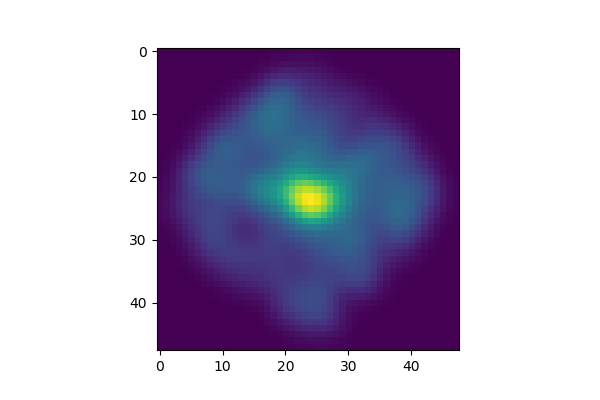
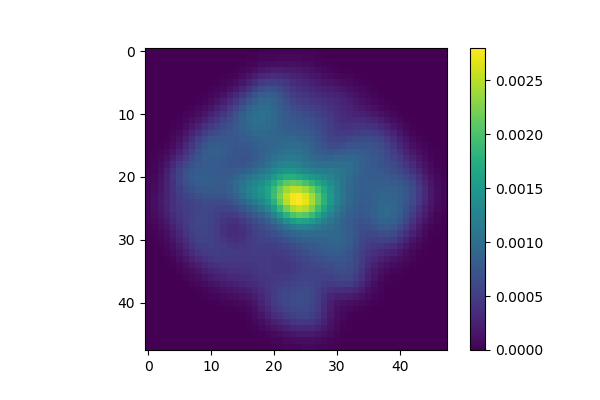
Changed figure plots to save color bars. Added code to save radial profile plots.

diff --git a/CombineImageStacks.py b/CombineImageStacks.py
@@ -3,7 +3,7 @@
 Created on Tue May 29 21:05:05 2018
 
 @author: Matthew Peek
-Last Modified: 16 December 2018
+Last Modified: 30 December 2018
 All Fields Image Stack
 """
 import numpy as np
@@ -34,20 +34,20 @@ def stackAll(fileListAll):
     
     plt.clf()
     plt.imshow(imageStack)
-    plt.savefig('Stacked_Image_All', dpi=100)
-    plt.subplots_adjust(right=2.0)
-    plt.subplots_adjust(top=1.0)
+    #plt.subplots_adjust(right=2.0)
+    #plt.subplots_adjust(top=1.0)
     plt.colorbar()
+    plt.savefig('Stacked_Image_All', dpi=100)
     plt.show()
     
     #Gaussian Blur
     plt.clf()
     betterImage = ndimage.gaussian_filter(imageStack, sigma=(2,2), order=0)
     plt.imshow(betterImage)
-    plt.savefig('Stacked_Image_All_Blur', dpi=100)
-    plt.subplots_adjust(right=2.0)
-    plt.subplots_adjust(top=1.0)
+    #plt.subplots_adjust(right=2.0)
+    #plt.subplots_adjust(top=1.0)
     plt.colorbar()
+    plt.savefig('Stacked_Image_All_Blur', dpi=100)
     plt.show()
     
     print ("StackAll Function Complete!", '\n')
@@ -72,20 +72,20 @@ def stackMeanAll(fileListMeanAll):
     
     plt.clf()
     plt.imshow(meanImage)
-    plt.savefig('Stacked_Image_Mean_All', dpi=100)
-    plt.subplots_adjust(right=2.0)
-    plt.subplots_adjust(top=1.0)
+    #plt.subplots_adjust(right=2.0)
+    #plt.subplots_adjust(top=1.0)
     plt.colorbar()
+    plt.savefig('Stacked_Image_Mean_All', dpi=100)
     plt.show()
     
     #Gaussian Blur
     plt.clf()
     betterImage = ndimage.gaussian_filter(meanImage, sigma=(2,2), order=0)
     plt.imshow(betterImage)
-    plt.savefig('Stacked_Image_Mean_All_Blur', dpi=100)
-    plt.subplots_adjust(right=2.0)
-    plt.subplots_adjust(top=1.0)
+    #plt.subplots_adjust(right=2.0)
+    #plt.subplots_adjust(top=1.0)
     plt.colorbar()
+    plt.savefig('Stacked_Image_Mean_All_Blur', dpi=100)
     plt.show()
     
     print ("stackMeanAll Function Complete!", '\n')
@@ -109,20 +109,20 @@ def stackMedianAll(fileListMedianAll):
     
     plt.clf()
     plt.imshow(medianImage)
-    plt.savefig('Stacked_Image_Median_All', dpi=100)
-    plt.subplots_adjust(right=2.0)
-    plt.subplots_adjust(top=1.0)
+    #plt.subplots_adjust(right=2.0)
+    #plt.subplots_adjust(top=1.0)
     plt.colorbar()
+    plt.savefig('Stacked_Image_Median_All', dpi=100)
     plt.show()
     
     #Gaussian Blur
     plt.clf()
     betterImage = ndimage.gaussian_filter(medianImage, sigma=(2,2), order=0)
     plt.imshow(betterImage)
-    plt.savefig('Stacked_Image_Median_All_Blur', dpi=100)
-    plt.subplots_adjust(right=2.0)
-    plt.subplots_adjust(top=1.0)
+    #plt.subplots_adjust(right=2.0)
+    #plt.subplots_adjust(top=1.0)
     plt.colorbar()
+    plt.savefig('Stacked_Image_Median_All_Blur', dpi=100)
     plt.show()
     
     print ("stackMedianAll Function Complete!")
@@ -146,20 +146,20 @@ def stackMeanAbsorb(fileListMeanAbsorb):
     
     plt.clf()
     plt.imshow(meanAbsorbImage)
-    plt.savefig('Stacked_Image_Mean_Absorb', dpi=100)
-    plt.subplots_adjust(right=2.0)
-    plt.subplots_adjust(top=1.0)
+    #plt.subplots_adjust(right=2.0)
+    #plt.subplots_adjust(top=1.0)
     plt.colorbar()
+    plt.savefig('Stacked_Image_Mean_Absorb', dpi=100)
     plt.show()
     
     #Gaussian Blur
     plt.clf()
     betterImage = ndimage.gaussian_filter(meanAbsorbImage, sigma=(2,2), order=0)
     plt.imshow(betterImage)
-    plt.savefig('Stacked_Image_Mean_Absorb_Blur', dpi=100)
-    plt.subplots_adjust(right=2.0)
-    plt.subplots_adjust(top=1.0)
+    #plt.subplots_adjust(right=2.0)
+    #plt.subplots_adjust(top=1.0)
     plt.colorbar()
+    plt.savefig('Stacked_Image_Mean_Absorb_Blur', dpi=100)
     plt.show()
     
     print ("stackMeanAbsorb Function Complete!")
@@ -184,20 +184,20 @@ def stackMeanNonAbsorb(fileListMeanNonAbsorb):
     
     plt.clf()
     plt.imshow(meanNonAbsorbImage)
-    plt.savefig('Stacked_Image_Mean_NonAbsorb', dpi=100)
-    plt.subplots_adjust(right=2.0)
-    plt.subplots_adjust(top=1.0)
+    #plt.subplots_adjust(right=2.0)
+    #plt.subplots_adjust(top=1.0)
     plt.colorbar()
+    plt.savefig('Stacked_Image_Mean_NonAbsorb', dpi=100)
     plt.show()
     
     #Gaussian Blur
     plt.clf()
     betterImage = ndimage.gaussian_filter(meanNonAbsorbImage, sigma=(2,2), order=0)
     plt.imshow(betterImage)
-    plt.savefig('Stacked_Image_Mean_NonAbsorb_Blur', dpi=100)
-    plt.subplots_adjust(right=2.0)
-    plt.subplots_adjust(top=1.0)
+    #plt.subplots_adjust(right=2.0)
+    #plt.subplots_adjust(top=1.0)
     plt.colorbar()
+    plt.savefig('Stacked_Image_Mean_NonAbsorb_Blur', dpi=100)
     plt.show()
     
     print ("stackMeanNonAbsorb Function Complete!")
@@ -222,20 +222,20 @@ def stackMedianAbsorb(fileListMedianAbsorb):
     
     plt.clf()
     plt.imshow(medianAbsorbImage)
-    plt.savefig('Stacked_Image_Median_Absorb', dpi=100)
-    plt.subplots_adjust(right=2.0)
-    plt.subplots_adjust(top=1.0)
+    #plt.subplots_adjust(right=2.0)
+    #plt.subplots_adjust(top=1.0)
     plt.colorbar()
+    plt.savefig('Stacked_Image_Median_Absorb', dpi=100)
     plt.show()
     
     #Gaussian Blur
     plt.clf()
     betterImage = ndimage.gaussian_filter(medianAbsorbImage, sigma=(2,2), order=0)
     plt.imshow(betterImage)
-    plt.savefig('Stacked_Image_Median_Absorb_Blur', dpi=100)
-    plt.subplots_adjust(right=2.0)
-    plt.subplots_adjust(top=1.0)
+    #plt.subplots_adjust(right=2.0)
+    #plt.subplots_adjust(top=1.0)
     plt.colorbar()
+    plt.savefig('Stacked_Image_Median_Absorb_Blur', dpi=100)
     plt.show()
     
     print ("stackMedianAbsorb Function Complete!")
@@ -260,8 +260,8 @@ def stackMedianNonAbsorb(fileListMedianNonAbsorb):
     plt.clf()
     plt.imshow(medianNonAbsorbImage)
     plt.savefig('Stacked_Image_Median_NonAbsorb', dpi=100)
-    plt.subplots_adjust(right=2.0)
-    plt.subplots_adjust(top=1.0)
+    #plt.subplots_adjust(right=2.0)
+    #plt.subplots_adjust(top=1.0)
     plt.colorbar()
     plt.show()
     
@@ -269,10 +269,10 @@ def stackMedianNonAbsorb(fileListMedianNonAbsorb):
     plt.clf()
     betterImage = ndimage.gaussian_filter(medianNonAbsorbImage, sigma=(2,2), order=0)
     plt.imshow(betterImage)
-    plt.savefig('Stacked_Image_Median_NonAbsorb_Blur', dpi=100)
-    plt.subplots_adjust(right=2.0)
-    plt.subplots_adjust(top=1.0)
+    #plt.subplots_adjust(right=2.0)
+    #plt.subplots_adjust(top=1.0)
     plt.colorbar()
+    plt.savefig('Stacked_Image_Median_NonAbsorb_Blur', dpi=100)
     plt.show()
     
     print ("stackMedianNonAbsorb Function Complete!")
@@ -296,20 +296,20 @@ def stackStandardAbsorb(fileListStandardAbsorb):
     
     plt.clf()
     plt.imshow(standardAbsorbImage)
-    plt.savefig('Stacked_Image_Standard_Absorb', dpi=100)
-    plt.subplots_adjust(right=2.0)
-    plt.subplots_adjust(top=1.0)
+    #plt.subplots_adjust(right=2.0)
+    #plt.subplots_adjust(top=1.0)
     plt.colorbar()
+    plt.savefig('Stacked_Image_Standard_Absorb', dpi=100)
     plt.show()
     
     #Gaussian Blur
     plt.clf()
     betterImage = ndimage.gaussian_filter(standardAbsorbImage, sigma=(2,2), order=0)
     plt.imshow(betterImage)
-    plt.savefig('Stacked_Image_Standard_Absorb_Blur', dpi=100)
-    plt.subplots_adjust(right=2.0)
-    plt.subplots_adjust(top=1.0)
+    #plt.subplots_adjust(right=2.0)
+    #plt.subplots_adjust(top=1.0)
     plt.colorbar()
+    plt.savefig('Stacked_Image_Standard_Absorb_Blur', dpi=100)
     plt.show()
     
     print ("stackStandardAbsorb Function Complete!")
@@ -333,20 +333,20 @@ def stackStandardNonAbsorb(fileListStandardNonAbsorb):
     
     plt.clf()
     plt.imshow(standardNonAbsorbImage)
-    plt.savefig('Stacked_Image_Standard_NonAbsorb', dpi=100)
-    plt.subplots_adjust(right=2.0)
-    plt.subplots_adjust(top=1.0)
+    #plt.subplots_adjust(right=2.0)
+    #plt.subplots_adjust(top=1.0)
     plt.colorbar()
+    plt.savefig('Stacked_Image_Standard_NonAbsorb', dpi=100)
     plt.show()
     
     #Gaussian Blur
     plt.clf()
     betterImage = ndimage.gaussian_filter(standardNonAbsorbImage, sigma=(2,2), order=0)
     plt.imshow(betterImage)
-    plt.savefig('Stacked_Image_Standard_NonAbsorb_Blur', dpi=100)
-    plt.subplots_adjust(right=2.0)
-    plt.subplots_adjust(top=1.0)
+    #plt.subplots_adjust(right=2.0)
+    #plt.subplots_adjust(top=1.0)
     plt.colorbar()
+    plt.savefig('Stacked_Image_Standard_NonAbsorb_Blur', dpi=100)
     plt.show()
     
     print ("stackStandardNonAbsorb Function Complete!")
@@ -367,20 +367,20 @@ def reduceMeanImageStack(imageAbsorb, imageNonAbsorb):
     
     plt.clf()
     plt.imshow(reduced)
-    plt.savefig('Reduced_Mean', dpi=100)
-    plt.subplots_adjust(right=2.0)
-    plt.subplots_adjust(top=1.0)
+    #plt.subplots_adjust(right=2.0)
+    #plt.subplots_adjust(top=1.0)
     plt.colorbar()
+    plt.savefig('Reduced_Mean', dpi=100)
     plt.show()
 
     #Gaussian Blur
     plt.clf()
     betterImage = ndimage.gaussian_filter(reduced, sigma=(2,2), order=0)
     plt.imshow(betterImage)
-    plt.savefig('Reduced_Mean_Blur', dpi=100)
-    plt.subplots_adjust(right=2.0)
-    plt.subplots_adjust(top=1.0)
+    #plt.subplots_adjust(right=2.0)
+    #plt.subplots_adjust(top=1.0)
     plt.colorbar()
+    plt.savefig('Reduced_Mean_Blur', dpi=100)
     plt.show()
     
     print ("Substract Mean Images Complete!")
@@ -401,20 +401,20 @@ def reduceMedianImageStack(imageAbsorb, imageNonAbsorb):
     
     plt.clf()
     plt.imshow(reduced)
-    plt.savefig('Reduced_Median', dpi=100)
-    plt.subplots_adjust(right=2.0)
-    plt.subplots_adjust(top=1.0)
+    #plt.subplots_adjust(right=2.0)
+    #plt.subplots_adjust(top=1.0)
     plt.colorbar()
+    plt.savefig('Reduced_Median', dpi=100)
     plt.show()
 
     #Gaussian Blur
     plt.clf()
     betterImage = ndimage.gaussian_filter(reduced, sigma=(2,2), order=0)
     plt.imshow(betterImage)
-    plt.savefig('Reduced_Median_Blur', dpi=100)
-    plt.subplots_adjust(right=2.0)
-    plt.subplots_adjust(top=1.0)
+    #plt.subplots_adjust(right=2.0)
+    #plt.subplots_adjust(top=1.0)
     plt.colorbar()
+    plt.savefig('Reduced_Median_Blur', dpi=100)
     plt.show()
     
     print ("Substract Median Images Complete!")
@@ -435,20 +435,20 @@ def reduceStandardImageStack(imageAbsorb, imageNonAbsorb):
     
     plt.clf()
     plt.imshow(reduced)
-    plt.savefig('Reduced_Standard', dpi=100)
-    plt.subplots_adjust(right=2.0)
-    plt.subplots_adjust(top=1.0)
+    #plt.subplots_adjust(right=2.0)
+    #plt.subplots_adjust(top=1.0)
     plt.colorbar()
+    plt.savefig('Reduced_Standard', dpi=100)
     plt.show()
 
     #Gaussian Blur
     plt.clf()
     betterImage = ndimage.gaussian_filter(reduced, sigma=(2,2), order=0)
     plt.imshow(betterImage)
-    plt.savefig('Reduced_Standard_Blur', dpi=100)
-    plt.subplots_adjust(right=2.0)
-    plt.subplots_adjust(top=1.0)
+    #plt.subplots_adjust(right=2.0)
+    #plt.subplots_adjust(top=1.0)
     plt.colorbar()
+    plt.savefig('Reduced_Standard_Blur', dpi=100)
     plt.show()
     
     print ("Substract Standard Images Complete!")
@@ -458,7 +458,7 @@ def reduceStandardImageStack(imageAbsorb, imageNonAbsorb):
 def brightnessProfile(imageName):
     image = fits.open(imageName)
     newData, header = image[0].data, image[0].header
-    print (header)
+    #print (header)
     height = header['NAXIS2']
     width = header['NAXIS1']
     image.close()
@@ -487,7 +487,9 @@ def brightnessProfile(imageName):
 
     #Plot flux as radius increases
     plt.clf()
-    plt.plot(radArray, fluxArray)
+    plt.plot(radArray, fluxArray, label = imageName)
+    plt.legend()
+    plt.savefig(imageName + "_Radial_Profile.png")
     plt.show()     
 
     fluxFrac = []
